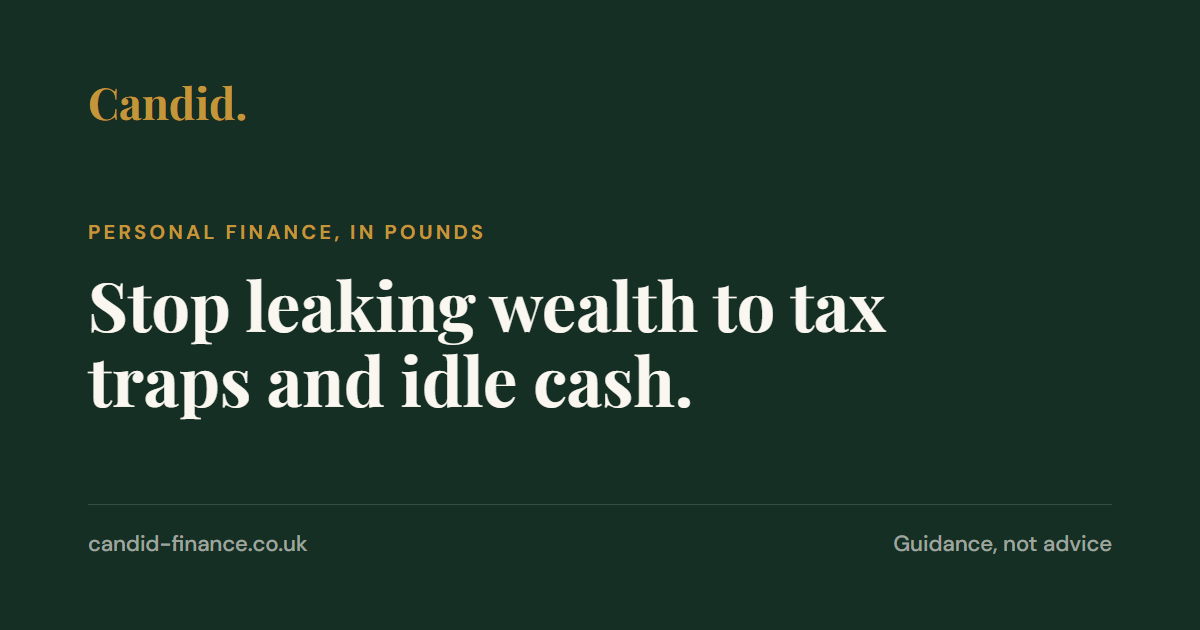
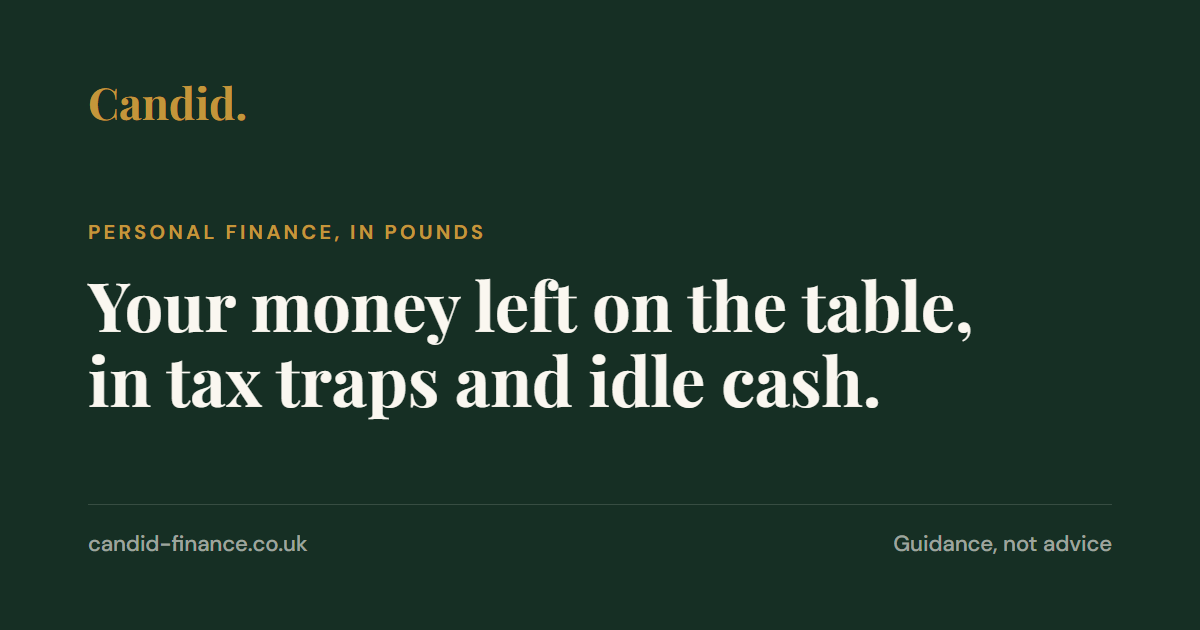
Copy: "left on the table" replaces leakage; website reviewed
Home, paywall, deposit checks, tracker ("Captured") and referral text use
"left on the table". Website: new headline, button "See what I'm missing",
page title and description, regenerated link-preview image. Bonus lines
say the tax is avoidable rather than "could save". No calc changes.

Changed region(s): [[0.0617, 0.4222, 0.8325, 0.6635]]

diff --git a/src/site/LandingPage.jsx b/src/site/LandingPage.jsx
@@ -245,7 +245,7 @@ export default function LandingPage() {
             fontFamily: SERIF, fontSize: "clamp(36px,5vw,54px)", fontWeight: 700,
             color: G, lineHeight: 1.12, letterSpacing: "-0.01em", marginBottom: "24px",
           }}>
-            Stop leaking wealth to tax traps and idle cash.
+            Your money left on the table, in tax traps and idle cash.
           </motion.h1>
           <motion.p variants={heroItem} style={{ fontSize: "clamp(15px,2vw,18px)", color: MUT, lineHeight: 1.7, maxWidth: "520px", margin: "0 0 24px" }}>
             Answer a few questions and see, in pounds, where tax and idle cash are costing you, and what each option is worth.
@@ -293,7 +293,7 @@ export default function LandingPage() {
               boxShadow: "0 30px 60px rgba(22,47,36,0.22)",
             }}>
               <img
-                src="/hero-answer.png" alt="The Candid app on an iPhone, showing £2.8k of tax that could be saved in the Pension module"
+                src="/hero-answer.png" alt="The Candid app on an iPhone, showing £2.8k of avoidable tax in the Pension module"
                 style={{ width: "100%", height: "100%", objectFit: "cover", objectPosition: "top", display: "block", borderRadius: "34px" }}
               />
             </div>
@@ -363,7 +363,7 @@ export default function LandingPage() {
             {[
               { icon: ClipboardList, title: "Where you stand and where you're headed", body: "Share your current setup and targets, from salary and savings to buying a home or growing your investments. Rough estimates are fine, we'll do the maths." },
               { icon: Scale, title: "Your full financial picture, analysed", body: "We test your setup against UK tax traps, debt mechanics, and personal goals. Then your Candid score, and every option worked out in pounds." },
-              { icon: Search, title: "See the £ value of every decision", body: "See what each option could add to your net worth, calculated from your own figures. Candid does the maths; the decisions are yours." },
+              { icon: Search, title: "See the £ value of every decision", body: "See what's left on the table and what each option gets back, from your own figures. Candid does the maths; the decisions are yours." },
               { icon: Compass, title: "Guidance that grows with you", body: "Life isn't static. Whether you get a pay rise, buy a home, or start a family – update a figure and every module's answer moves with it." },
             ].map((step, i) => (
               <Tile key={step.title} ref={teaserRef(i)} {...pullTogether(i, 4, reduceMotion)} {...tileHover} style={{ borderTop: `4px solid ${GOLD}` }}>

diff --git a/src/mobile/screens/MobileHomeScreen.jsx b/src/mobile/screens/MobileHomeScreen.jsx
@@ -152,10 +152,10 @@ export default function MobileHomeScreen({ insights, d, m, statuses, completedMo
             beside it shows how far along they are. */}
         <div style={{display:"flex",alignItems:"center",gap:"16px"}}>
           <div style={{flex:1,minWidth:0}}>
-            <div style={{fontSize:"10.5px",fontWeight:600,color:MUT,letterSpacing:"0.09em",textTransform:"uppercase"}}>Estimated leakage/yr</div>
+            <div style={{fontSize:"10.5px",fontWeight:600,color:MUT,letterSpacing:"0.09em",textTransform:"uppercase"}}>Left on the table/yr</div>
             <div style={{fontFamily:SERIF,fontSize:"38px",fontWeight:700,color:G,lineHeight:1.1,marginTop:"6px"}}>{fmt(totalOpp)}</div>
             <p style={{fontSize:"13px",color:MUT,lineHeight:1.45,margin:"6px 0 0"}}>
-              {totalOpp > 0 ? "What's leaking from your money each year, across what you've answered."
+              {totalOpp > 0 ? "Your money left on the table each year, across what you've answered."
                 : unchecked > 0 ? `Nothing left on the table in what you've checked so far. ${unchecked} more ${unchecked === 1 ? "area" : "areas"} to check below.`
                 : "Nothing left on the table in what you've answered."}
             </p>
@@ -177,7 +177,7 @@ export default function MobileHomeScreen({ insights, d, m, statuses, completedMo
         <button type="button" onClick={() => setScoreOpen(o => !o)}
           style={{marginTop:"16px",width:"100%",display:"flex",alignItems:"center",justifyContent:"space-between",background:"none",border:"none",borderTop:"1px solid rgba(22,47,36,0.08)",padding:"12px 0 0",color:TEXT,fontFamily:"inherit",cursor:"pointer"}}>
           <span style={{fontSize:"13.5px",fontWeight:700}}>
-            {plan.length > 0 ? <>Where money is leaking <span style={{fontWeight:500,color:MUT}}>· {stepsDone} of {plan.length} reviewed</span></> : "Your modules"}
+            {plan.length > 0 ? <>Money left on the table <span style={{fontWeight:500,color:MUT}}>· {stepsDone} of {plan.length} reviewed</span></> : "Your modules"}
           </span>
           <ChevronDown size={16} color={MUT} style={{transform:scoreOpen?"rotate(180deg)":"none",transition:"transform 0.2s"}}/>
         </button>

diff --git a/src/mobile/deepdive/MobilePensionDeepDive.jsx b/src/mobile/deepdive/MobilePensionDeepDive.jsx
@@ -636,7 +636,7 @@ function BonusTile({ hasStatedBonus, win4Num, bonusSacrifice, d, sacrificePct, s
             ? "Your pension allowance has no room left this year — sacrificing your bonus could trigger a tax charge"
             : bonusSacrifice.standaloneSacrifice < bonusSacrifice.bonus
               ? `Your allowance has room for ${fmt(bonusSacrifice.standaloneSacrifice)} of your ${fmt(bonusSacrifice.bonus)} bonus — saving up to ${fmt(bonusPotential)} in tax`
-              : `Sacrificing your ${fmt(+d.bonusAmount)} bonus could save up to ${fmt(bonusPotential)} in tax`}
+              : `Up to ${fmt(bonusPotential)} of tax on your ${fmt(+d.bonusAmount)} bonus is avoidable through sacrifice`}
           tagLabel="Today"
           reminder={bonusPotential > 0 ? {
             id: "pension-bonus-sacrifice",
@@ -644,7 +644,7 @@ function BonusTile({ hasStatedBonus, win4Num, bonusSacrifice, d, sacrificePct, s
             // Informational, not directive — states the figures and the action
             // needed (an email to HR/Payroll) rather than instructing the
             // person to sacrifice their bonus, avoiding reading as advice.
-            description: `${firstName(d) ? firstName(d)+", d" : "D"}on't forget to check whether you can sacrifice your bonus into your pension before it's paid. Based on your bonus (${fmt(+d.bonusAmount)}), sacrificing it could save up to ${fmt(bonusPotential)} in tax and National Insurance.\n\nDrop HR or Payroll an email to ask about bonus sacrifice - this needs actioning before your bonus is paid, as it usually can't be done retrospectively.`,
+            description: `${firstName(d) ? firstName(d)+", d" : "D"}on't forget to check whether you can sacrifice your bonus into your pension before it's paid. Based on your bonus (${fmt(+d.bonusAmount)}), up to ${fmt(bonusPotential)} of tax and National Insurance on it is avoidable by sacrificing it.\n\nDrop HR or Payroll an email to ask about bonus sacrifice - this needs actioning before your bonus is paid, as it usually can't be done retrospectively.`,
             email: bonusSacrificeDraft({ name: d.name }),
           } : null}>
           <p style={{fontSize:"13px",color:MUT,lineHeight:1.6,marginBottom:"14px"}}>

diff --git a/src/mobile/GainedFromChanges.jsx b/src/mobile/GainedFromChanges.jsx
@@ -32,7 +32,7 @@ export default function GainedFromChanges({ d }) {
 
   if (!gained.count) return (
     <div style={{marginTop:"22px"}}>
-      <div style={kicker}>Reclaimed</div>
+      <div style={kicker}>Captured</div>
       <p style={{fontSize:"13px",color:MUT,lineHeight:1.45,margin:"6px 0 0"}}>
         When you make a change and update your figures in a module, what it's worth adds up here.
       </p>
@@ -50,7 +50,7 @@ export default function GainedFromChanges({ d }) {
 
   return (
     <div style={{marginTop:"16px",background:HERO_TILE_BG,border:"1px solid rgba(22,47,36,0.08)",borderRadius:RADIUS_CARD,padding:"18px 18px 16px",boxShadow:"0 4px 18px rgba(22,47,36,0.07)"}}>
-      <div style={kicker}>Reclaimed</div>
+      <div style={kicker}>Captured</div>
       <div style={{display:"flex",alignItems:"baseline",gap:"6px",marginTop:"6px"}}>
         <span style={{fontFamily:SERIF,fontSize:"38px",fontWeight:700,color:SUCCESS,lineHeight:1.1}}>{fmt(gained.perYear)}</span>
         <span style={{fontSize:"15px",fontWeight:600,color:TEXT}}>a year</span>
@@ -142,7 +142,7 @@ function GainChart({ d, keys, from, soFar }) {
     <div ref={ref} style={{position:"relative",marginTop:"14px",touchAction:"pan-y"}}
       onPointerMove={move} onPointerDown={move} onPointerLeave={() => setHover(null)}>
       <svg width={width} height={H} role="img" style={{display:"block",overflow:"visible"}}
-        aria-label={`${fmt(soFar)} reclaimed so far this tax year. Figures by module below.`}>
+        aria-label={`${fmt(soFar)} captured so far this tax year. Figures by module below.`}>
         <line x1={0} x2={width} y1={base} y2={base} stroke="rgba(22,47,36,0.15)" strokeWidth={1}/>
         {/* A 2px line in the tile's colour round each band keeps
             neighbouring bands apart. */}

diff --git a/src/lib/moduleReveal.js b/src/lib/moduleReveal.js
@@ -134,7 +134,7 @@ function pensionSteps(d, m) {
   if (m.missedMatch > 0) {
     const netCost = Math.round((empPct - myPct) / 100 * m.salary * (1 - m.tr));
     return [
-      { label: ANSWER, figure: `${fmt(m.missedMatch)} a year`, title: "of salary left on the table: employer match you're not getting." },
+      { label: ANSWER, figure: `${fmt(m.missedMatch)} a year`, title: "of employer match left on the table." },
       { label: WHY, title: `Your employer matches up to ${empPct}% of your salary. You pay ${myPct}%.` },
       { label: ACTION, title: `Raising your payments to ${empPct}% would get the full match.`,
         body: `It would cost you about ${fmt(netCost)} a year after tax relief. ${HR}` },
@@ -177,7 +177,7 @@ function pensionSteps(d, m) {
     { label: WHY, title: `You pay ${myPct}%${empPct > 0 && !selfEmployed(d) ? (d.employerContributionType === "fixed" ? ` and your employer pays ${empPct}%` : ` and get your employer's full ${empPct}% match`) : ""}, so you're not leaving money on the table.`,
       body: "In today's money: growth of 6% a year, less 2% inflation." },
     bonus.standalone > 0
-      ? { label: ACTION, title: `Paying your ${fmt(+d.bonusAmount)} bonus into your pension could save up to ${fmt(bonus.standalone)} in tax.`, body: "It has to be arranged with HR or payroll before the bonus is paid." }
+      ? { label: ACTION, title: `Up to ${fmt(bonus.standalone)} of tax on your ${fmt(+d.bonusAmount)} bonus is avoidable, if it's paid into your pension.`, body: "It has to be arranged with HR or payroll before the bonus is paid." }
       : { label: ACTION, title: "Nothing to change right now.", body: checkedLine(d, m, adequacy) },
   ];
 }

diff --git a/index.html b/index.html
@@ -5,14 +5,14 @@
     <meta name='impact-site-verification' value='08579035-3c00-42d1-b8b5-73d02990a2cf'>
     <meta charset="UTF-8" />
     <meta name="viewport" content="width=device-width, initial-scale=1.0, viewport-fit=cover" />
-    <meta name="description" content="See what your money could be doing, worked out from your own figures. Free to start; your first answer in about 3 minutes." />
+    <meta name="description" content="See the money you're leaving on the table, worked out from your own figures. Free to start; your first answer in about 3 minutes." />
     <!-- og:url, og:image and the twitter:* tags are added at build time from
          these and the canonical link (src/lib/sitePartials.js). -->
-    <meta property="og:title" content="Candid | Optimise your money" />
-    <meta property="og:description" content="See what your money could be doing, worked out from your own figures. Free to start; your first answer in about 3 minutes." />
+    <meta property="og:title" content="Candid | Money left on the table" />
+    <meta property="og:description" content="See the money you're leaving on the table, worked out from your own figures. Free to start; your first answer in about 3 minutes." />
     <meta property="og:type" content="website" />
     <link rel="canonical" href="https://www.candid-finance.co.uk/" />
-    <title>Candid | Optimise your money</title>
+    <title>Candid | Money left on the table</title>
 
     <!-- PWA: installable, standalone (no browser chrome) when added to a home screen -->
     <link rel="manifest" href="/manifest.json">

diff --git a/src/mobile/screens/MobileUnlock.jsx b/src/mobile/screens/MobileUnlock.jsx
@@ -31,7 +31,7 @@ export default function MobileUnlock({ moduleKey, d, m, statuses, onUnlock, onLe
   const amount = mod?.amount > 0 ? mod.amount : 0;
 
   // What's behind the frost, named, so it's clear what unlocking gets them.
-  const hidden = amount > 0 ? ["Where it's leaking", "Your options, and what each one stops"] : PREVIEW_LINES[moduleKey] || ["Where you stand", "What to keep an eye on"];
+  const hidden = amount > 0 ? ["What's left on the table", "Your options, and what each one gets back"] : PREVIEW_LINES[moduleKey] || ["Where you stand", "What to keep an eye on"];
   const cta = amount > 0 ? "Show me where it's going" : "Show me";
 
   const label = { fontSize:"10.5px", fontWeight:600, color:MUT, letterSpacing:"0.09em", textTransform:"uppercase" };
@@ -320,7 +320,7 @@ const COMING_SOON = [
   ["Open Banking integration", "Connect your accounts for a live, unified view of your net worth."],
   ["More live updates", "Student loan repayment terms and mortgage deals, when they change."],
   ["Savings and goal planner", "Dynamic reviews of how much you could save and invest."],
-  ["Tax trap and leakage alerts", "Warnings for stealth tax bands, policy shifts and missed yield."],
+  ["Tax trap and low-rate alerts", "Warnings for stealth tax bands, policy shifts and missed yield."],
   ["New expansion modules", "Household finances, children's accounts, property and mortgages, and inheritance."],
 ];
 const listHead = { fontSize:"10.5px", fontWeight:700, color:MUT, letterSpacing:"0.09em", textTransform:"uppercase" };

diff --git a/src/mobile/property/DecisionWaterfall.jsx b/src/mobile/property/DecisionWaterfall.jsx
@@ -106,7 +106,7 @@ export default function DecisionWaterfall({ d, m, set, onAddInputs, onOpenModule
           {c.people.map(p => p.state === "missing"
             ? (p.who === "partner" && <p key={p.who} style={line}>Add your partner's pension figures above to check theirs.</p>)
             : <p key={p.who} style={line}>{matchLine(p)}</p>)}
-          {c.state === "attention" && <p style={why}>Matched contributions are a 100% return, so this is a real wealth leakage.</p>}
+          {c.state === "attention" && <p style={why}>Matched contributions are a 100% return, so any unclaimed is salary left on the table.</p>}
           {askMatch && (
             <>
               {c.people[0].state === "missing" && <p style={line}>Add your workplace pension to check this.</p>}
@@ -150,7 +150,7 @@ export default function DecisionWaterfall({ d, m, set, onAddInputs, onOpenModule
 
   return (
     <div>
-      <div style={{fontSize:"10px",fontWeight:700,color:MUT,letterSpacing:"0.08em",textTransform:"uppercase",marginBottom:"10px"}}>Leaks to check before a deposit</div>
+      <div style={{fontSize:"10px",fontWeight:700,color:MUT,letterSpacing:"0.08em",textTransform:"uppercase",marginBottom:"10px"}}>Left on the table, before a deposit</div>
       <div style={{display:"flex",flexDirection:"column",gap:"10px"}}>
         {checks.map(c => {
           const { Icon, color } = stateIcon(c.state);

diff --git a/src/lib/priorities.test.js b/src/lib/priorities.test.js
@@ -16,7 +16,7 @@ test("what to do first: modules with money to act on, largest first, each with i
   assert.ok(list.length > 0);
   for (let i = 1; i < list.length; i++) assert.ok(list[i - 1].amount >= list[i].amount);
   for (const p of list) assert.equal(p.line, getModuleSummary(MODULE_META.find(mm => mm.key === p.key), d, m, statuses, null).summary);
-  assert.ok(list.some(p => p.key === "pension" && /unclaimed match/.test(p.line)));
+  assert.ok(list.some(p => p.key === "pension" && /employer match left on the table/.test(p.line)));
 });
 
 test("cash's £ figure comes with its own explanation, an access concern after it", () => {
@@ -27,7 +27,7 @@ test("cash's £ figure comes with its own explanation, an access concern after i
 });
 
 test("the headline names the biggest win, or says all is on track", () => {
-  assert.equal(scoreHeadline([{ title: "Pension", amount: 900 }]), "Your biggest leak: Pension, £900 a year.");
+  assert.equal(scoreHeadline([{ title: "Pension", amount: 900 }]), "Most left on the table: Pension, £900 a year.");
   assert.equal(scoreHeadline([]), "You're on track across the modules you've answered.");
 });
 

diff --git a/src/lib/referral.test.js b/src/lib/referral.test.js
@@ -3,7 +3,7 @@ import assert from "node:assert/strict";
 import { inviteMessage, inviteMailto, INVITE_SUBJECT } from "./referral.js";
 
 test("the invite says what Candid was used for: the answer given, else the last unlocked, else in general", () => {
-  assert.match(inviteMessage("abcd2345", {}, "studentLoan"), /^I've been using Candid to work out whether to pay off my student loan early\. It's a tool that helps people like us work out if we're leaking money\./);
+  assert.match(inviteMessage("abcd2345", {}, "studentLoan"), /^I've been using Candid to work out whether to pay off my student loan early\. It's a tool that helps people like us work out if we're leaving money on the table./);
   assert.match(inviteMessage("abcd2345", { unlockedModules: ["pension", "cash"] }), /to see if I could be earning more on my savings\./);
   assert.match(inviteMessage("abcd2345", {}), /to see where I could be keeping more of my money\./);
   assert.match(inviteMessage("abcd2345", {}), /\/app\/start\?ref=abcd2345$/);

diff --git a/src/lib/moduleStatus.js b/src/lib/moduleStatus.js
@@ -252,7 +252,7 @@ export function computeModuleStatuses(d, m, marketRates = {}) {
     nonEarnerRelief ? `${fmt(NON_EARNER_PENSION_RELIEF)}/yr of tax relief open to you, with no earnings` : null,
     notPayingIn
       ? `${d.hasPension === "yes" ? "Nothing paid in" : "No pension"}: ${fmt(pensionPrimaryAmount)}/yr of tax relief missed`
-      : contributing && m.missedMatch > 0 ? `${fmt(m.missedMatch)}/yr of unclaimed match: salary left on the table` : null,
+      : contributing && m.missedMatch > 0 ? `${fmt(m.missedMatch)}/yr of employer match left on the table` : null,
     pensionTaperAmount > 0 ? `${fmt(pensionTaperAmount)}/yr lost to the 60% tax band above £100k` : null,
     retirementGap > 0 ? `${fmt(retirementGap)}/yr short of the retirement income you'd like` : null,
     pensionPotentialAmount > 0 ? `up to ${fmt(pensionPotentialAmount)} of avoidable tax on your bonus` : null,

diff --git a/src/lib/referral.js b/src/lib/referral.js
@@ -77,7 +77,7 @@ const USED_FOR = {
 export function inviteMessage(code, d = {}, moduleKey = null) {
   const key = USED_FOR[moduleKey] ? moduleKey : [...(d.unlockedModules || [])].reverse().find(k => USED_FOR[k]);
   const usedFor = USED_FOR[key] || "see where I could be keeping more of my money";
-  return `I've been using Candid to ${usedFor}. It's a tool that helps people like us work out if we're leaking money. Start with my link and your second module is unlocked for free:\n${inviteUrl(code)}`;
+  return `I've been using Candid to ${usedFor}. It's a tool that helps people like us work out if we're leaving money on the table. Start with my link and your second module is unlocked for free:\n${inviteUrl(code)}`;
 }
 
 // A phone's own share sheet (email, WhatsApp, recent apps and the rest) on
